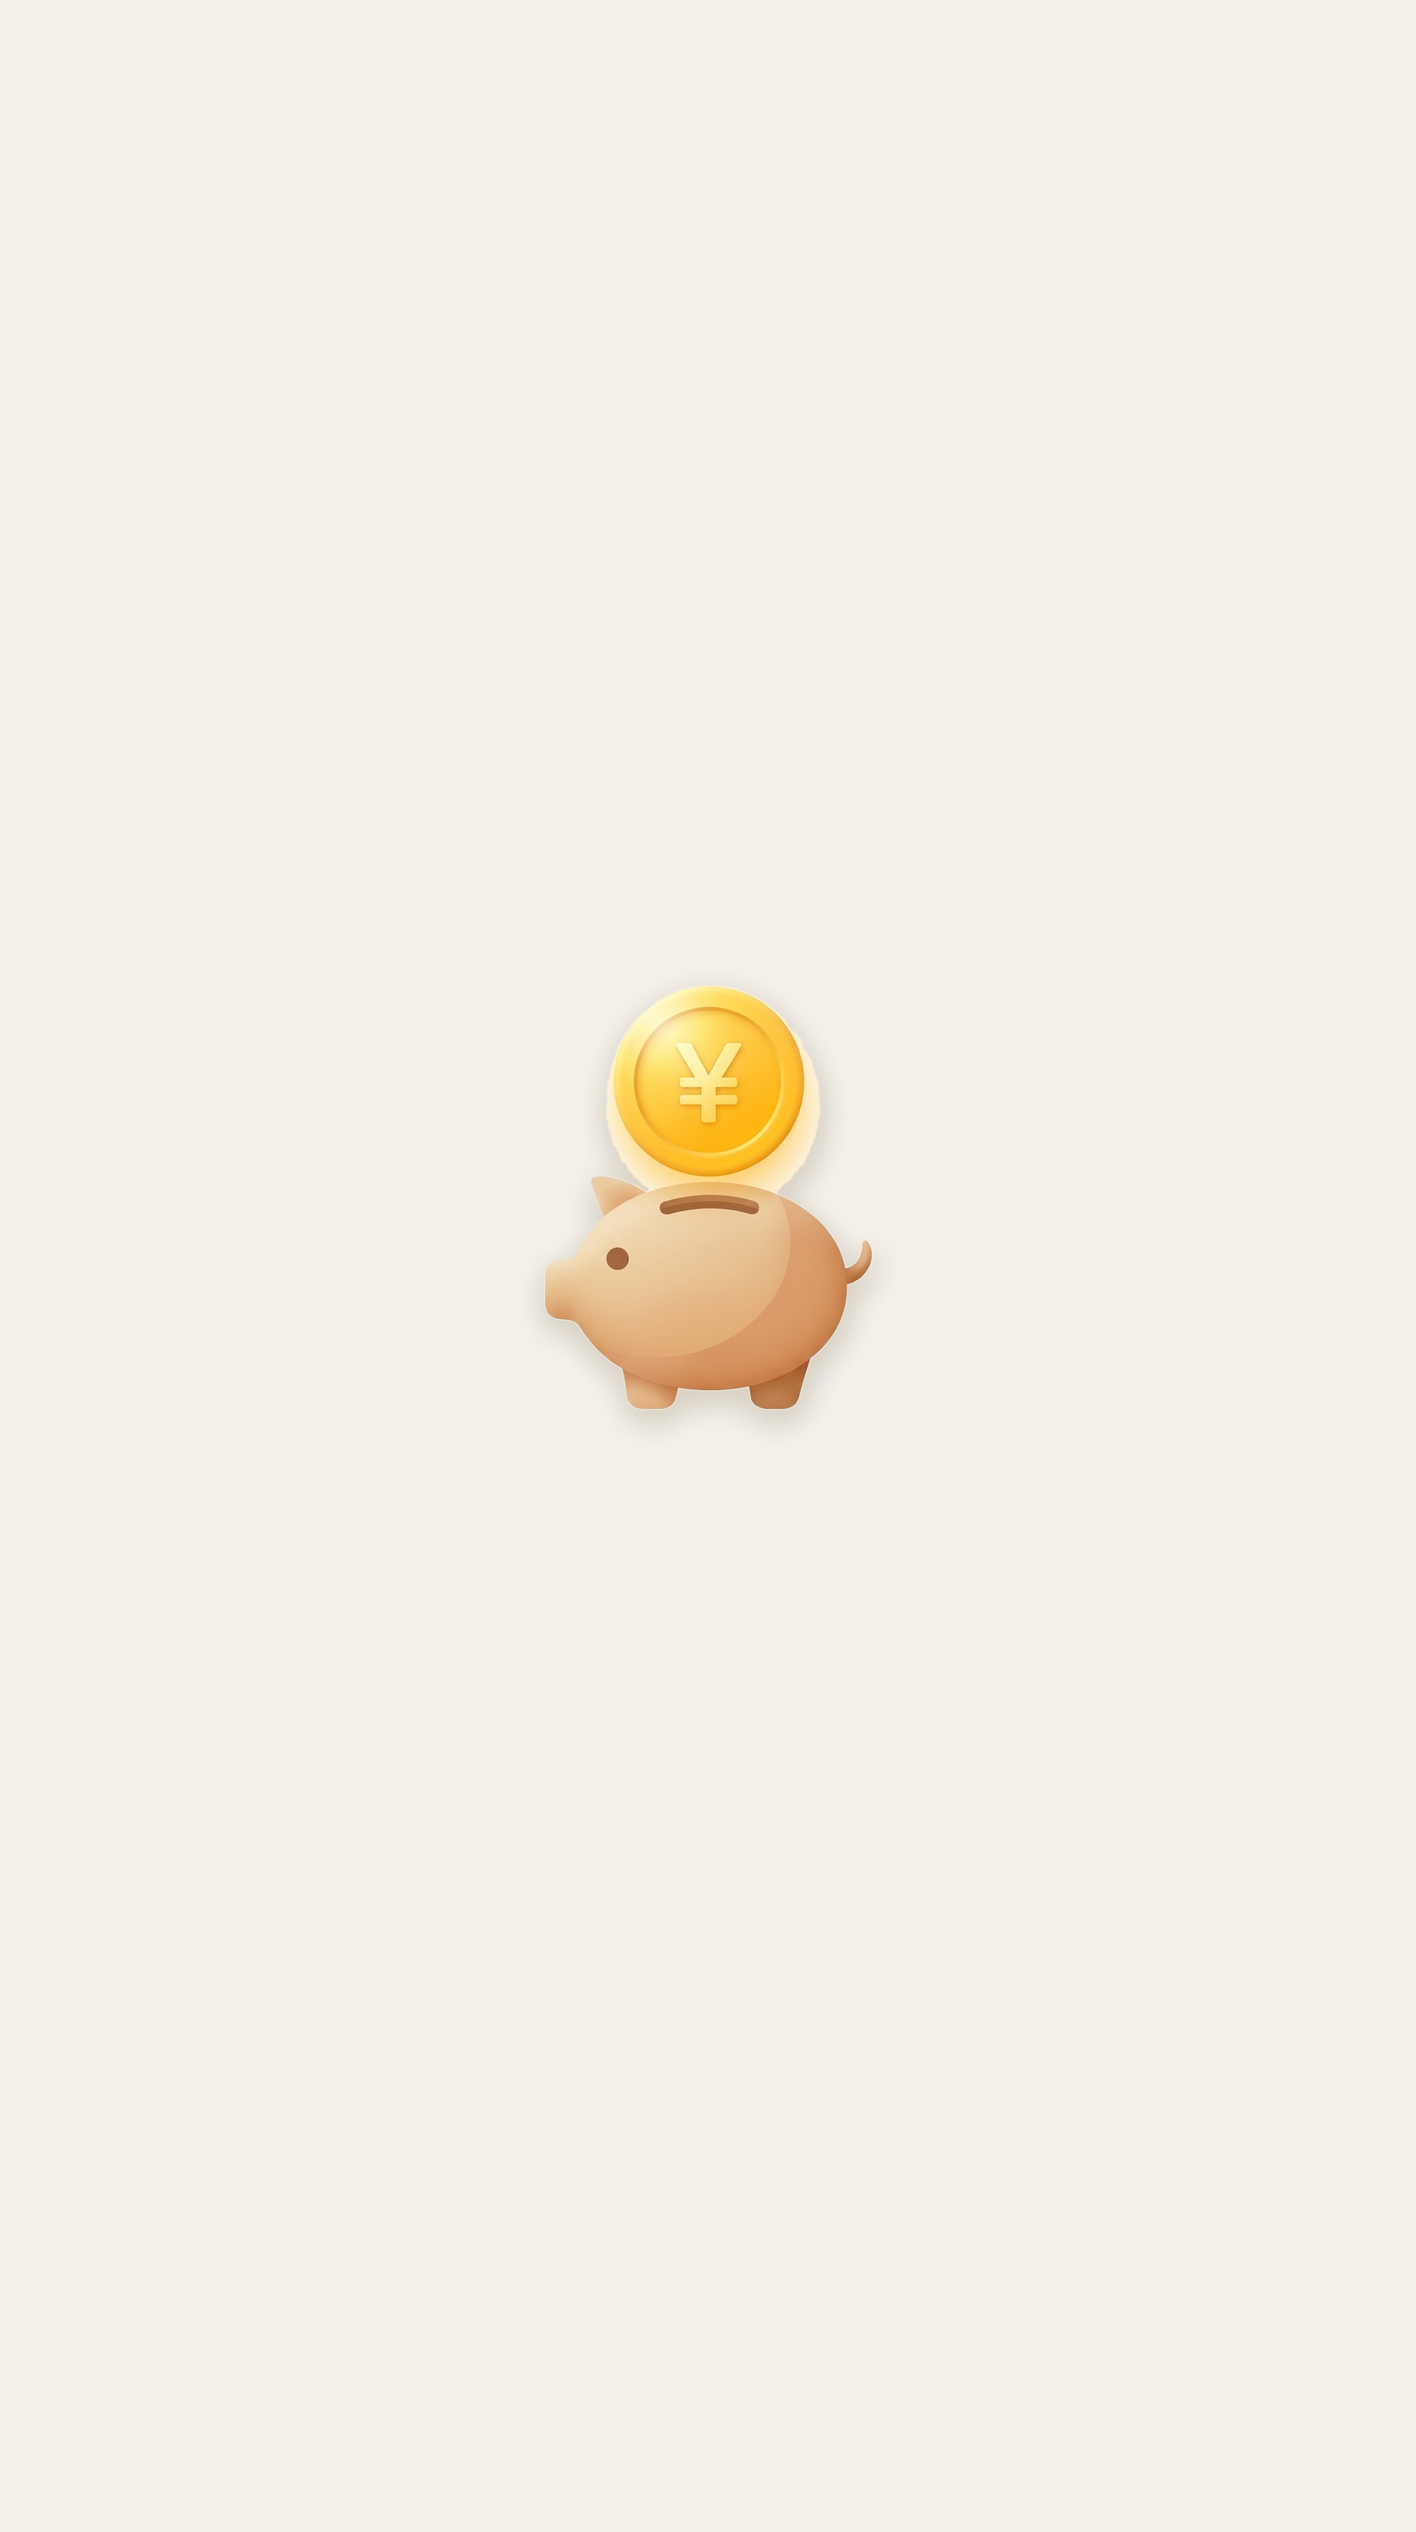
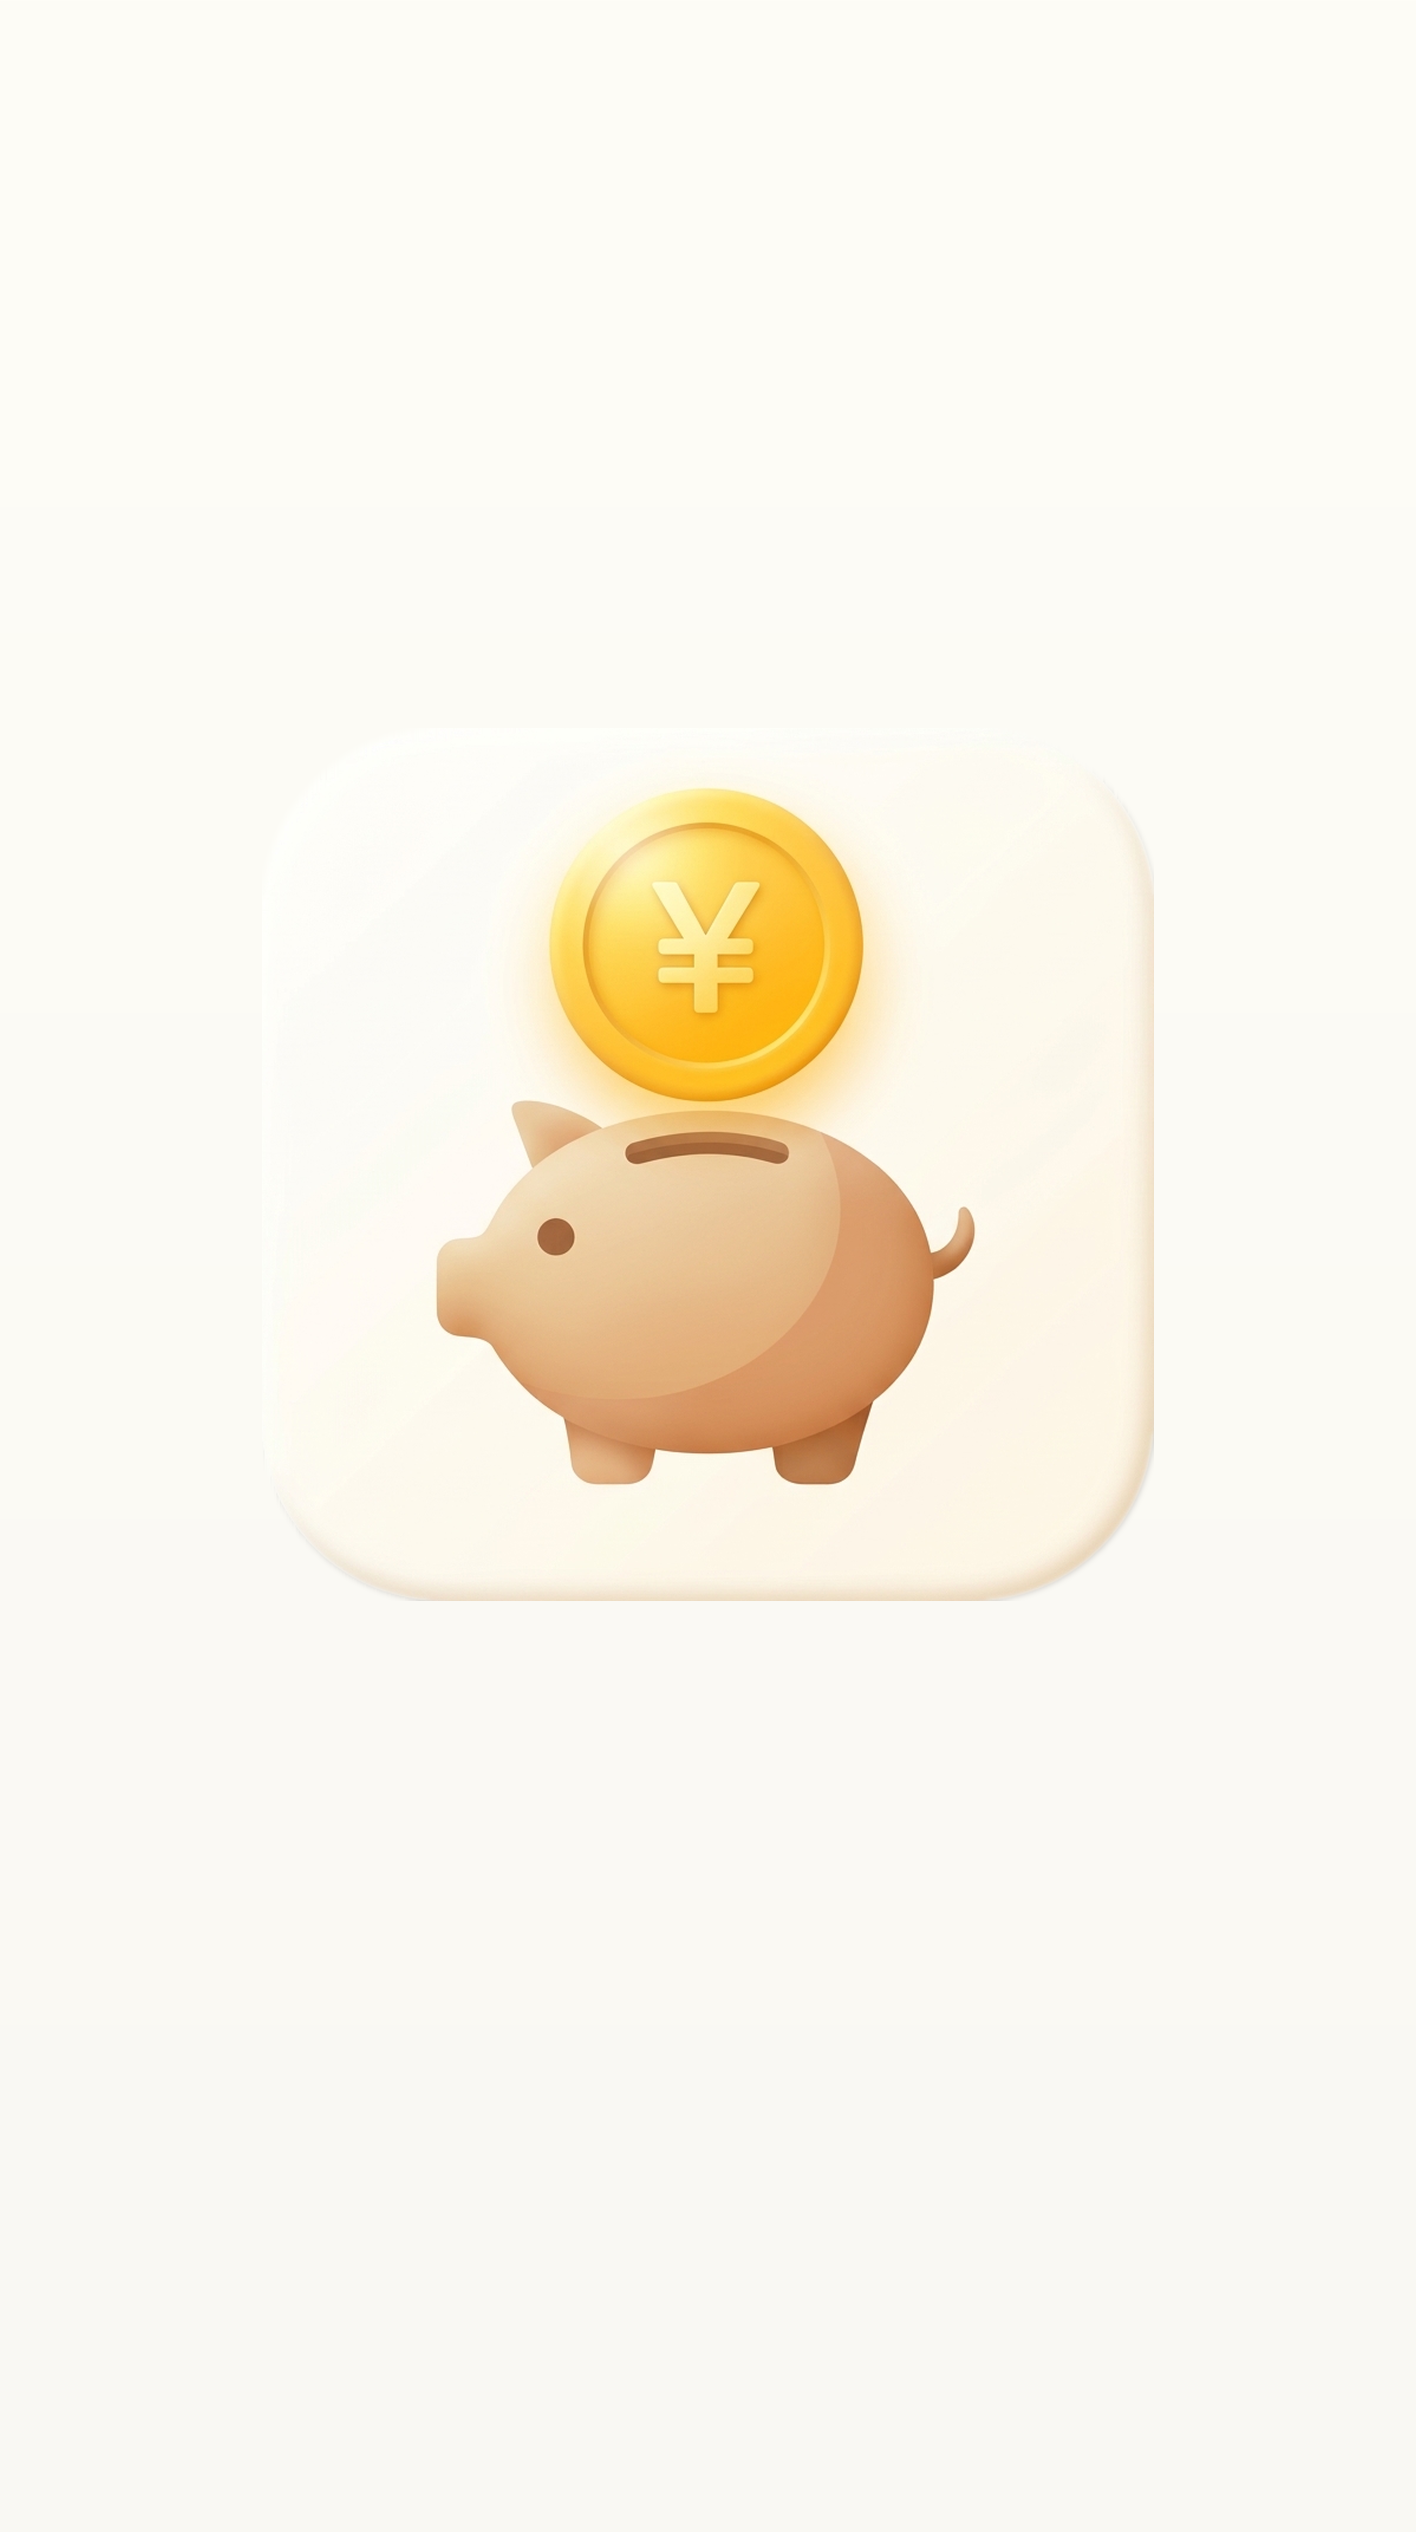
冷启动海报直接放大默认图标，不再抠图重贴 (1.4.20)

diff --git a/src/data/backup/format.ts b/src/data/backup/format.ts
@@ -9,7 +9,7 @@ import type { LedgerState } from '../../types'
 export const BACKUP_FORMAT = 'shijinran.backup'
 export const BACKUP_SCHEMA = 2
 /** 与 package.json 的 version 保持一致，导入预览里展示 */
-export const APP_VERSION = '1.4.19'
+export const APP_VERSION = '1.4.20'
 
 export interface BackupEnvelope {
   format: typeof BACKUP_FORMAT

diff --git a/docs/ARCHITECTURE.md b/docs/ARCHITECTURE.md
@@ -182,7 +182,7 @@ App / main
 
 ## 版本与构建
 
-- `versionCode 59` / `versionName 1.4.19`（`android/app/build.gradle`）
+- `versionCode 60` / `versionName 1.4.20`（`android/app/build.gradle`）
 - 数据版本 `LedgerState.version = 1`，`normalize()` 读取时补全新增分类与设置
 - 存储：IndexedDB（库 `shijinran`，`txs` / `meta` / `snapshots` 三个 store），首次启动从 `localStorage` 一次性迁移；`localStorage['shijinran.storage.engine']='ls'` 可强制回退旧引擎
 - 备份：v2 容器带 `schema` / `checksum`，默认 gzip；导入先预览，支持覆盖 / 合并 / 仅设置与分类；导入、清空、恢复前自动快照（保留 5 份）
@@ -192,7 +192,7 @@ App / main
 - 识别流程：`fileToOcrDataUrl()` 压到 1600px → `Ocr.recognize` 在原生线程跑模型、返回行与坐标 → `parseReceipt()` 抽金额 / 日期 / 商户 / 分类 → `AddSheet` 回填，用户确认后才写库
 - OCR 引擎：全进程只有一个，由 `android/app/src/main/java/com/shijinran/money/ocr/OcrEngineHolder.java` 提供。RapidOcr 的 native 层不是多实例安全的，截图监听服务和 `Ocr` 插件如果在同一进程各建一个引擎，后来那个实例的识别结果会变成字形相近的乱码；`detect` 也加了锁，两个线程同时调用不会互相踩；文字的阅读顺序也由这里统一排（`orderedBlocks()` 先按行、行内按 x），截图服务和 `Ocr` 插件共用同一套，避免 RapidOcr 返回顺序不稳定导致前端解析错位
 - 金额口径（`lib/ocr/amount.ts`）：每个金额只认它左边紧邻的标签（实付 / 实收 / 应付 8，付款 / 支付金额 7，合计 / 总计 / 应收 6，本次消费 5，通用「金额」3，找零 / 优惠 / 折扣 / 原价 / 余额 −9），同行多个金额各算各的；没有小数点且 ≥100 时用商品金额合计反推是「分」还是「元」，都不像就按分记并在 `OcrDraft.warnings` 里提示核对
-- 应用图标 / 启动画面：桌面图标是奶油色圆角卡片（`drawable/ic_launcher_bg.xml` 270° 渐变 #FFFCF4→#FAF0DE）+ 金色 ¥ 硬币和小猪（`mipmap-*/ic_launcher_foreground.png`，抠自 1024 版原图，前景占 58%）。Android 8+ 走 `mipmap-anydpi-v26/ic_launcher.xml` 自适应图标（background 用上面的渐变 drawable、monochrome 是同形状白剪影），旧系统用 `mipmap-*/ic_launcher.png` 预渲染 squircle（圆角半径 22.5%、art 60%、剪影形投影）；`ic_launcher_round.png` 是圆形版。启动主题 `AppTheme.NoActionBarLaunch` 的背景改成同一张纸色 #F5F1E8、系统 splash 图标用同一只小猪，`windowLightStatusBar=true`；App 内的冷启动海报 `src/assets/launch-poster.png` 也重画成同一张纸底 + 同一只小猪（图里 art 331px / 画布 1416px、中心在 47.3% 高度），按 1200×2670 屏换算后与系统 splash 的 27.7% 屏宽、屏幕正中完全重合，`LaunchScreen` 渐显时不会看到位置或大小跳变（`src/styles/og.css` 的 `.launch` 底色同步改成 #f5f1e8）
+- 应用图标 / 启动画面：桌面图标是奶油色圆角卡片（`drawable/ic_launcher_bg.xml` 270° 渐变 #FFFCF4→#FAF0DE）+ 金色 ¥ 硬币和小猪（`mipmap-*/ic_launcher_foreground.png`，抠自 1024 版原图，前景占 58%）。Android 8+ 走 `mipmap-anydpi-v26/ic_launcher.xml` 自适应图标（background 用上面的渐变 drawable、monochrome 是同形状白剪影），旧系统用 `mipmap-*/ic_launcher.png` 预渲染 squircle（圆角半径 22.5%、art 60%、剪影形投影）；`ic_launcher_round.png` 是圆形版。启动主题 `AppTheme.NoActionBarLaunch` 的背景改成同一张纸色 #F5F1E8、系统 splash 图标用同一只小猪，`windowLightStatusBar=true`；App 内的冷启动海报 `src/assets/launch-poster.png` 直接把原图标那张奶油卡整块放大到 63% 屏宽居中（不抠图，卡片圆角、猪的投影、硬币光晕都是原图里的像素），背景按卡片自身的奶油色铺满整屏（上下 1% 渐变），边缘只做 0.4% 羽化、不再额外加投影；`src/styles/og.css` 的 `.launch` 底色同步改成 #f5f1e8
 - 权限：`AndroidManifest.xml` 只申请 `READ_MEDIA_IMAGES`（13+）/ `READ_EXTERNAL_STORAGE`（≤32）、`POST_NOTIFICATIONS`、`FOREGROUND_SERVICE(_SPECIAL_USE)`、`RECEIVE_BOOT_COMPLETED`，以及可选的 `REQUEST_IGNORE_BATTERY_OPTIMIZATIONS`（只用于跳「不受电池优化限制」设置页，不弹系统对话框）和可选的 `SYSTEM_ALERT_WINDOW`（截屏后自己在屏幕顶部画卡片，用户不允许时退回通知）；不申请 `INTERNET`，安装包无法联网
 - 分享 / 截图：`CapturePlugin` 收 `ACTION_SEND`、启停前台服务；`ScreenshotWatchService`（`foregroundServiceType="specialUse"`）用 ContentObserver 监听 MediaStore 新图，只认开启后新增且文件名像截图的，识别到金额后把「金额 + 整段OCR文字 + 缓存图」存进待确认队列并各发一条高优先级通知（编号 4301–4499 循环，标题「识别到 ¥X」，两个按钮直接用 `RemoteViews` 画在通知内容视图里（系统 action 只在展开后才显示，国产 ROM 折叠时看不到），折叠状态也能点；队列最多 4 张，挤掉最旧的会顺手收起它的通知并删缓存；点「直接记一笔」由 `CaptureCancelReceiver` 入队（每条带自增 `seq`，前端用它做确定性 id `auto-<seq>`，重复点/重复取都只会覆盖同一条）、前台即时 ping 或下次回前台由 `autoRecordToTx` 补全后写库；取记录时先写进「在途」存档（`autoRecordsInflight`），前端写库成功调 `ackAutoRecords` 才清掉，写失败或进程被杀下一轮原样再取，不会丢；前端 `applyAutoRecords` 用一条 promise 链串行执行、按最新状态合并、按 id 去重，点取消由同一个接收器丢掉待确认并收起通知），认不出金额的截图静默丢弃；有悬浮窗权限时改由 `CaptureOverlay` 在顶部画卡片（`TYPE_APPLICATION_OVERLAY`，28dp 圆角白卡加投影、48dp 圆角缩略图带淡描边、两个等宽胶囊按钮「确认记录」「取消」、按下有水波纹、弹出回弹缩放，15 秒自动收起并清掉待确认）；权限判断不只看 `Settings.canDrawOverlays()`，还要 `AppOpsManager.checkOpNoThrow(SYSTEM_ALERT_WINDOW)` 放行、且卡片窗口真的挂到屏幕上（`CaptureOverlay.isShowing()`），否则小米 / HyperOS 那种「appops 拒了但 canDrawOverlays 返回 true」的机型会静默失败，画不出来一律退回系统通知；卡片模式下同一时间只留最新一张（来新图清掉上一张没确认的待确认项、它的通知和缓存图），通知只留作通知栏备份、不再弹横幅；服务启动时清掉超过 10 分钟没人确认的遗留项和队列里已无对应记录的通知；分享路径用 `capture_pending` extra 带图进 `AddSheet`，冷启动也生效；「直接记一笔」优先用队列里那一条，队列里已经没有了就退而用通知自带的那份金额文字补记（`CaptureStore` 记最近 40 个已入账的 key，连点两下或重复广播都不会记两笔），连金额都没有时发一条「这张截图没记上」的提示，不再静默丢弃；服务停止时先撤掉延迟任务、提交前确认线程池还活着，补扫任务不会在关闭后崩主线程
 - 检查：`npm run check`（tsc + 分层检查）、`npm test`（vitest）

diff --git a/README.md b/README.md
@@ -6,7 +6,7 @@
 
 - 纯本地存储，不联网、不上传、无广告、无账号
 - 深色 / 浅色 / 跟随系统 + 8 个强调色的可换主题，新装默认浅色；炭灰卡片、16px 间距、鸿蒙 Sans 中文 + Nunito 圆体数字；版式与主题系统参考 openGym，代码全部重写
-- 安装包：见 GitHub Releases（1.4.19，约 47 MB——内置离线 OCR 模型与 onnxruntime，minSdk 23 / targetSdk 35）
+- 安装包：见 GitHub Releases（1.4.20，约 47 MB——内置离线 OCR 模型与 onnxruntime，minSdk 23 / targetSdk 35）
 
 ## 功能
 

diff --git a/CHANGELOG.md b/CHANGELOG.md
@@ -1,5 +1,10 @@
 # 更新记录
 
+## 1.4.20 — 2026-11-16
+
+- 冷启动海报改成把桌面图标整块放大居中，不再抠出来重贴：卡片的圆角、猪的投影、硬币的光晕都原样保留，背景用卡片自己的奶油色铺满。
+- 图标本身没有改动；仍然没有网络权限。
+
 ## 1.4.19 — 2026-11-16
 
 - 换了新图标：奶油色圆角卡片里的金色硬币和小猪，桌面上是自适应图标（Android 8 以上各机型裁成圆形或圆角方形都好看），旧的深蓝图标退休。
